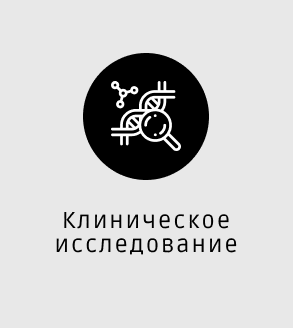
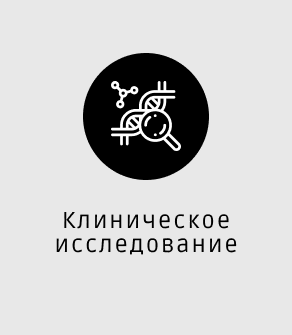
add image research type, and сhange images

diff --git a/researchManager/templates/research/researchType.html b/researchManager/templates/research/researchType.html
@@ -6,30 +6,62 @@
     <div class="row">
     {% if method == "loadResearch" %}
       <div  class="col-sm-3">
-        <a href="{% url 'loadResearch' 'clinicalResearch' %}"><img src="{% static 'img/Clinical_studies_Not_Active.png' %}" class="img-fluid" ></a>
+        <a href="{% url 'loadResearch' 'clinicalResearch' %}">          
+          <img class="img-fluid" src="{% static 'img/Clinical_studies_Not_Active.png' %}" 
+          onmouseover="this.src='{% static 'img/Clinical_studies_Active.png' %}'" 
+          onmouseout="this.src='{% static 'img/Clinical_studies_Not_Active.png' %}'" />
+        </a>
       </div>
       <div class="col-sm-3">
-        <a href="{% url 'loadResearch' 'preclinicalResearch' %}"><img src="{% static 'img/Preclinical_Studies_Not_Active.png' %}" class="img-fluid" ></a>
+        <a href="{% url 'loadResearch' 'preclinicalResearch' %}">          
+          <img class="img-fluid" src="{% static 'img/Preclinical_Studies_Not_Active.png' %}" 
+          onmouseover="this.src='{% static 'img/Preclinical_Studies_Active.png' %}'" 
+          onmouseout="this.src='{% static 'img/Preclinical_Studies_Not_Active.png' %}'" />
+        </a>
       </div>
       <div class="col-sm-3">       
-        <a href="{% url 'loadResearch' 'initiativeResearch' %}"><img src="{% static 'img/Initiative_Research_Not_Active.png' %}" class="img-fluid" ></a>
+        <a href="{% url 'loadResearch' 'initiativeResearch' %}">          
+          <img class="img-fluid" src="{% static 'img/Initiative_Research_Not_Active.png' %}" 
+          onmouseover="this.src='{% static 'img/Initiative_Research_Active.png' %}'" 
+          onmouseout="this.src='{% static 'img/Initiative_Research_Not_Active.png' %}'" />
+        </a>
       </div>
       <div class="col-sm-3">       
-        <a href="{% url 'loadResearch' 'dissertationWork' %}"><img src="{% static 'img/Dissertation_Not_Active.png' %}" class="img-fluid" ></a>
+        <a href="{% url 'loadResearch' 'dissertationWork' %}">
+          <img class="img-fluid" src="{% static 'img/Dissertation_Not_Active.png' %}" 
+          onmouseover="this.src='{% static 'img/Dissertation_Active.png' %}'" 
+          onmouseout="this.src='{% static 'img/Dissertation_Not_Active.png' %}'" />
+        </a>
       </div>
       {% endif %}
-      {% if method == "watchResearch" %}
-      <div class="col-sm-3">
-        <a href="{% url 'WatchResearchList' 'clinicalResearch' %}"><img src="{% static 'img/Clinical_studies_Not_Active.png' %}" class="img-fluid" ></a>
+      {% if method == "watchResearch" %}      
+      <div  class="col-sm-3">
+        <a href="{% url 'WatchResearchList' 'clinicalResearch' %}">          
+          <img class="img-fluid" src="{% static 'img/Clinical_studies_Not_Active.png' %}" 
+          onmouseover="this.src='{% static 'img/Clinical_studies_Active.png' %}'" 
+          onmouseout="this.src='{% static 'img/Clinical_studies_Not_Active.png' %}'" />
+        </a>
       </div>
       <div class="col-sm-3">
-        <a href="{% url 'WatchResearchList' 'preclinicalResearch' %}"><img src="{% static 'img/Preclinical_Studies_Not_Active.png' %}" class="img-fluid" ></a>
+        <a href="{% url 'WatchResearchList' 'preclinicalResearch' %}">          
+          <img class="img-fluid" src="{% static 'img/Preclinical_Studies_Not_Active.png' %}" 
+          onmouseover="this.src='{% static 'img/Preclinical_Studies_Active.png' %}'" 
+          onmouseout="this.src='{% static 'img/Preclinical_Studies_Not_Active.png' %}'" />
+        </a>
       </div>
       <div class="col-sm-3">       
-        <a href="{% url 'WatchResearchList' 'initiativeResearch' %}"><img src="{% static 'img/Initiative_Research_Not_Active.png' %}" class="img-fluid" ></a>
+        <a href="{% url 'WatchResearchList' 'initiativeResearch' %}">          
+          <img class="img-fluid" src="{% static 'img/Initiative_Research_Not_Active.png' %}" 
+          onmouseover="this.src='{% static 'img/Initiative_Research_Active.png' %}'" 
+          onmouseout="this.src='{% static 'img/Initiative_Research_Not_Active.png' %}'" />
+        </a>
       </div>
       <div class="col-sm-3">       
-        <a href="{% url 'WatchResearchList' 'dissertationWork' %}"><img src="{% static 'img/Dissertation_Not_Active.png' %}" class="img-fluid" ></a>
+        <a href="{% url 'WatchResearchList' 'dissertationWork' %}">
+          <img class="img-fluid" src="{% static 'img/Dissertation_Not_Active.png' %}" 
+          onmouseover="this.src='{% static 'img/Dissertation_Active.png' %}'" 
+          onmouseout="this.src='{% static 'img/Dissertation_Not_Active.png' %}'" />
+        </a>
       </div>
       {% endif %}
     </div>

diff --git a/static/css/style.css b/static/css/style.css
@@ -47,3 +47,5 @@
     text-decoration: none;
     
 }
+
+
